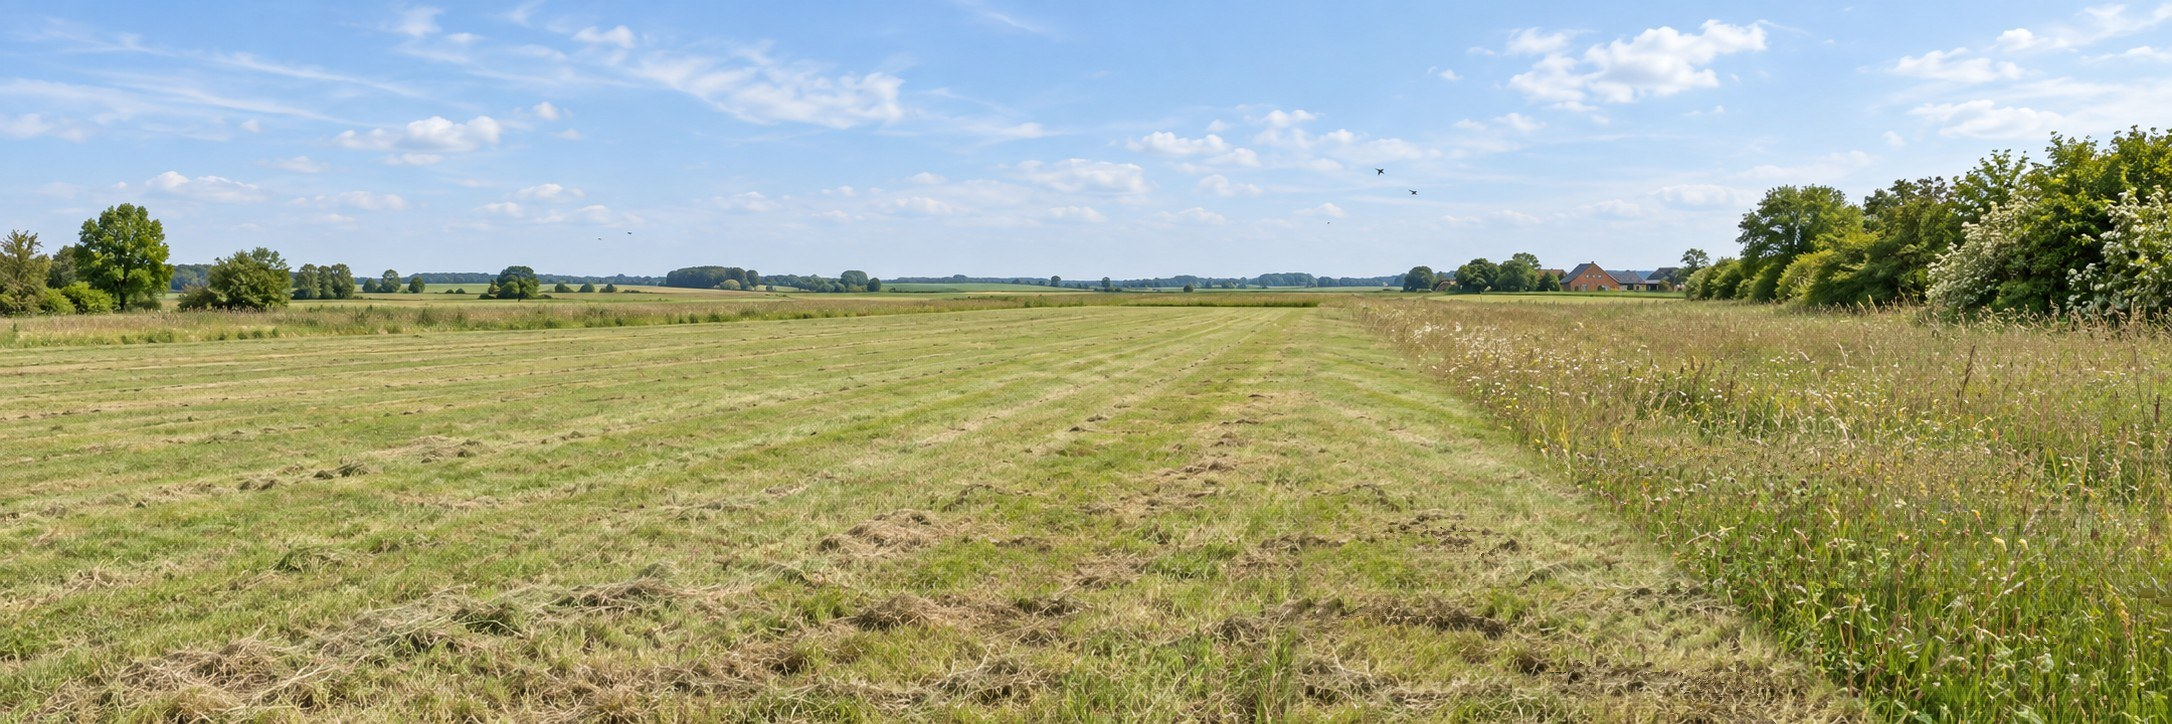
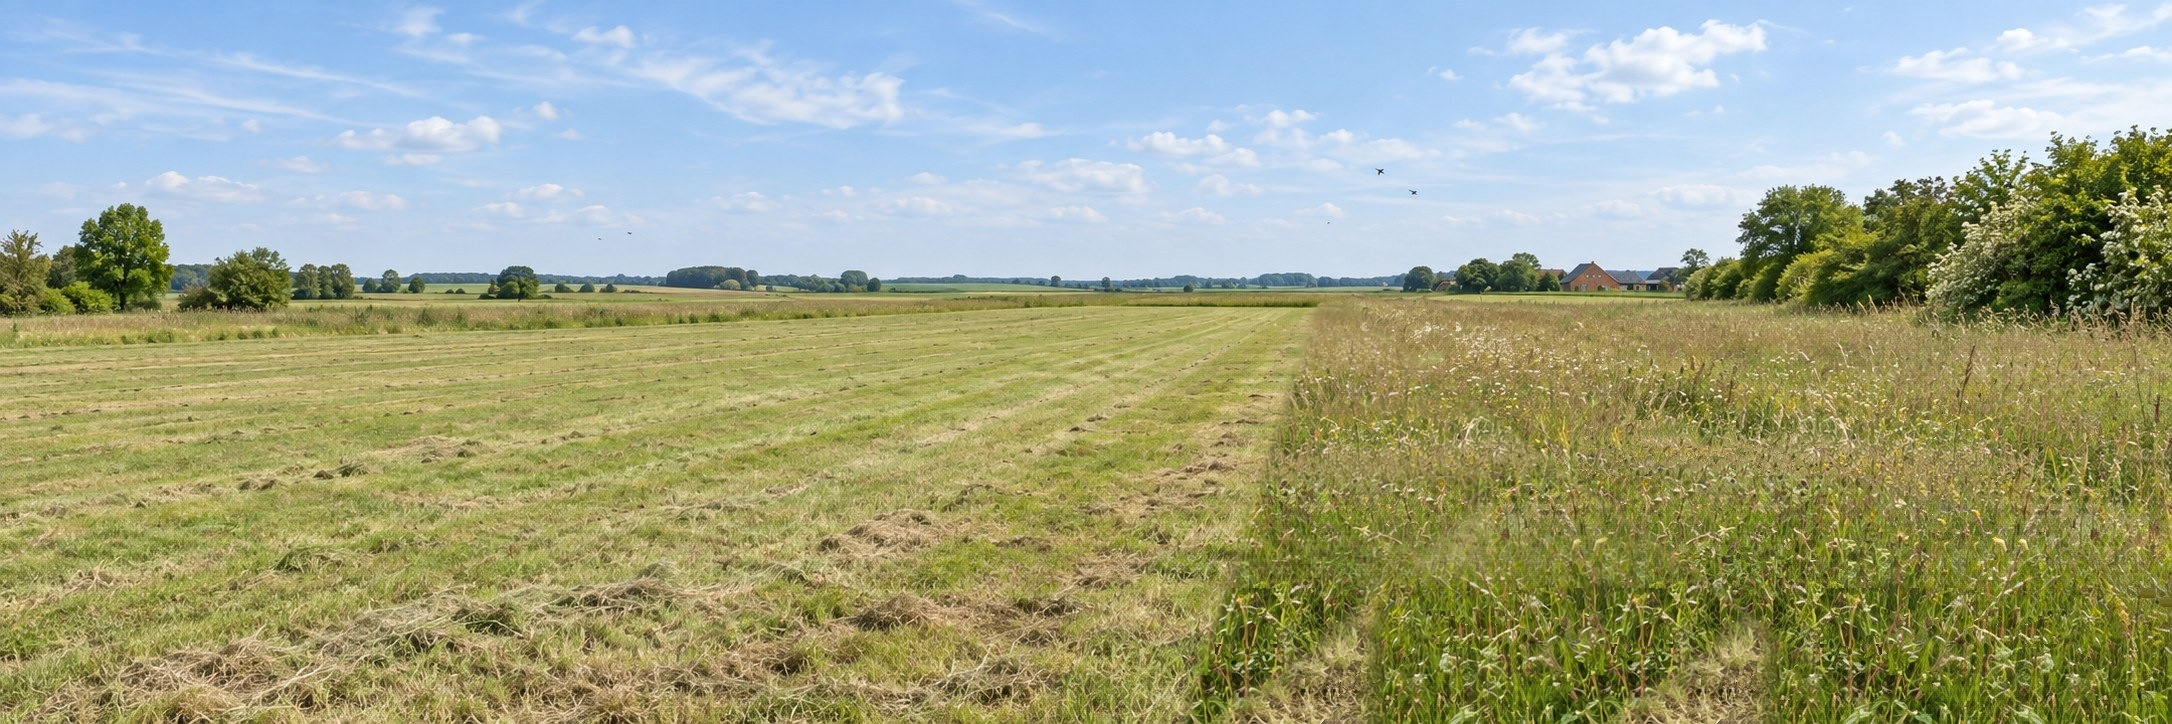
New version: level-3 flower strip widened to the drawn line (margin and its marker in the centre), level-3 points spread over the strip, species further back (insects enlarged in proportion, birds and hare life size), stem visibility fix
Claude-Session: https://claude.ai/code/session_01FiR5RpJPTLi4sTDcQJky3y

Changed region(s): [[0.5244, 0.4254, 0.8637, 1.0]]

diff --git a/new/app3d.js b/new/app3d.js
@@ -47,7 +47,8 @@ const fromImg = (x, y, h = 0) => ({ az: (x - IMG_W / 2) / F, d: F * (H0 - h) / (
 const world = (az, d, y = 0) => new THREE.Vector3(d * Math.sin(az), y, -d * Math.cos(az));
 // edges of the unmown vegetation, exactly as used to make the approved pictures (lines through the vanishing point)
 const lx = (y, xb) => 1327 + (xb - 1327) * (y - 297) / (723 - 297);
-const TALL = { 1: () => false, 3: (x, y) => y > Y0 && x > lx(y, 1880), 5: (x, y) => y > Y0 };   // new version: at level 5 the whole field is meadow
+const XB3 = 1190;   // new version: level-3 flower strip widened to the line drawn by the researcher (bottom-row x 1190 instead of 1880)
+const TALL = { 1: () => false, 3: (x, y) => y > Y0 && x > lx(y, XB3), 5: (x, y) => y > Y0 };   // new version: at level 5 the whole field is meadow
 const STRIP5 = (x, y) => y > Y0 && x > lx(y, 760);   // the original level-5 flower strip (kept for the original tall stems, so levels 1 and 3 stay identical)
 
 function mulberry32(a) { return function () { a |= 0; a = a + 0x6D2B79F5 | 0; let t = Math.imul(a ^ a >>> 15, 1 | a); t = t + Math.imul(t ^ t >>> 7, 61 | t) ^ t; return ((t ^ t >>> 14) >>> 0) / 4294967296; }; }
@@ -253,6 +254,7 @@ function buildFlowers(list) {
     const hf = rr(...H[f.t]); if (f.y <= Y0 + 2) continue;
     const { az, d } = fromImg(f.x, f.y, hf); if (!(d > R_IN && d < VEG_MAX) || Math.abs(az) > 89 * D2R) continue;
     const size = THREE.MathUtils.clamp(f.w * d / F, 0.035, 0.07);
+    if (f.x > lx(f.y, XB3) && f.x <= lx(f.y, 1880) && !f.v3) { const h = Math.sin(f.x * 12.9898 + f.y * 78.233) * 43758.5453; f.v3 = (h - Math.floor(h)) < 0.47 ? 1 : 0; }   // widened level-3 strip
     const p = world(az, d), toViewer = Math.atan2(-p.x, -p.z);   // flower heads turned towards the viewer, as in the photo
     FL.push({ type: f.t, p, h: hf, size, ef: smooth(Math.max(0, Math.min(1, (90 * D2R - Math.abs(az)) / (10 * D2R)))), vis: [0, f.v3, 1], yaw: f.t === 'clover' ? rand() * 6.28 : toViewer + rr(-0.4, 0.4), tilt: f.t === 'daisy' ? rr(0.5, 0.95) : rr(0.15, 0.4), top: new THREE.Vector3() });
   }
@@ -315,13 +317,18 @@ const FLY_H = { bee: 0.4, butterfly: 0.42 };          // assumed height above gr
 // Checked against the edges of the unmown vegetation used for the pictures (the margin markers lie on the real margin edge).
 const AR_LAYOUT = {
   1: { mown: { az: 0, d: 2.5 }, margin: { az: 44, d: 2.8 }, hedge: { x: 1960, y: 225 } },
-  3: { margin: { az: 44, d: 2.8 }, butterfly: { az: 50, d: 3.4 }, flower: { az: 58, d: 2.3 }, bee: { az: 66, d: 1.8 }, hedge: { x: 1960, y: 225 } },
+  // new version, level 3: field margin on the new strip edge in the centre of the view; butterfly, bee and meadow flowers spread over the wider strip
+  3: { margin: { az: 17, d: 3.2 }, butterfly: { az: 34, d: 3.8 }, bee: { az: 47, d: 2.8 }, flower: { az: 60, d: 2.4 }, hedge: { x: 1960, y: 225 } },
   // new version: species spread to both sides (left: hare, bumblebee, grassland bird, whinchat, grasshopper; centre: field margin, bee,
   // flower strip; right: butterfly, meadow flowers, hedgerow)
-  5: { hare: { az: -58, d: 3.3 }, bumblebee: { az: -44, d: 1.7 }, bird: { az: -30, d: 3.0 }, whinchat: { az: -17, d: 2.3 }, grasshopper: { az: -9, d: 1.5 },
-       margin: { az: -5, d: 2.8 }, bee: { az: 10, d: 1.7 }, strip: { az: 15, d: 3.4 }, butterfly: { az: 27, d: 2.6 }, flower: { az: 38, d: 2.0 }, hedge: { x: 1960, y: 225 } }
+  // species further back (27.11.2026): insects 2.6–3.8 m (enlarged in proportion, see SIZE_K), birds and hare 3.6–4 m (life size)
+  5: { hare: { az: -58, d: 4.0 }, bumblebee: { az: -44, d: 2.8 }, bird: { az: -30, d: 4.0 }, whinchat: { az: -17, d: 3.6 }, grasshopper: { az: -9, d: 2.6 },
+       margin: { az: -5, d: 2.8 }, bee: { az: 10, d: 2.8 }, strip: { az: 15, d: 3.4 }, butterfly: { az: 27, d: 3.8 }, flower: { az: 38, d: 2.0 }, hedge: { x: 1960, y: 225 } }
 };
 const MARKER_H = 0.7;                      // markers float this high above the ground (m), with a thin line down to the object
+// new version: the insects were moved further back and enlarged by the same factor, so they look as big on screen as before
+// (factor = new distance / previous distance). Birds and hare keep their life size.
+const SIZE_K = { 3: { bee: 2.8 / 1.8, butterfly: 3.8 / 3.4 }, 5: { bee: 2.8 / 1.7, butterfly: 3.8 / 2.6, bumblebee: 2.8 / 1.7, grasshopper: 2.6 / 1.5 } };
 
 function loftGeometry(prof, lengthM, depthRatio) {   // rounded 3D body from the outline of the side-view picture, coloured by that picture
   const W = prof.w, H = prof.h; let cols = prof.cols.filter(c => c[1] !== null);
@@ -379,7 +386,7 @@ function makeBird(tex, prof, lengthM) {
 // ---------------- new version: four more species at level 5 ----------------
 // Sizes: hare and whinchat life-size (hare about 50 cm long sitting, whinchat about 13 cm); the two insects enlarged like the
 // bee and butterfly (bumblebee 9 cm, grasshopper 10 cm) so they can be seen.
-const NEW5 = { hare: { len: 0.5 }, whinchat: { len: 0.135, perch: 0.6 }, grasshopper: { len: 0.1, h: 0.3 }, bumblebee: { len: 0.09, h: 0.42 } };
+const NEW5 = { hare: { len: 0.5 }, whinchat: { len: 0.135, perch: 0.6 }, grasshopper: { len: 0.1, h: 0.3 }, bumblebee: { len: 0.09, h: 0.42 } };   // base sizes; the insects are enlarged with SIZE_K
 function lambert(tex) { return new THREE.MeshLambertMaterial({ map: tex, side: THREE.DoubleSide, alphaTest: 0.5, transparent: false }); }
 function planeFrom(tex, iw, ih, a1, a2, b1, b2, L, z) {   // a flat picture part, placed so that 2 of its points land on 2 points of the body picture
   const B1 = imgToModel(L, b1[0], b1[1]), B2 = imgToModel(L, b2[0], b2[1]);
@@ -452,6 +459,8 @@ function buildNewSpecies(prof, tx, wingTex) {
     else if (kind === 'grasshopper') { const b = makeGrasshopper(tx, prof); a = { g: b.g, body: b.body, legs: b.legs, top: b.top }; a.home = world(az, d, NEW5.grasshopper.h);
       a.stemBase = world(az, d); const st = b.stem; st.position.add(a.home); root.add(st); a.stem = st; }
     else { const b = makeBumblebee(tx, prof, wingTex); a = { g: b.g, wings: b.wings, top: b.top }; a.home = world(az, d, NEW5.bumblebee.h); }
+    const K = SIZE_K[5][kind] ?? 1;
+    if (K !== 1) { const sc = new THREE.Group(); [...a.g.children].forEach(c => sc.add(c)); sc.scale.setScalar(K); a.g.add(sc); a.top *= K; }   // whole animal enlarged
     a.kind = kind; a.lv = 5; a.g.position.copy(a.home); a.baseYaw = -az; a.g.rotation.y = a.baseYaw; a.yaw = a.baseYaw; a.targetYaw = a.baseYaw;
     a.presence = a.lv === PRODUCT_LEVEL ? 1 : 0; a.phase = rand2() * 10; a.timer = 2 + rand2() * 3; a.t = 0; a.action = 'idle'; root.add(a.g); animals.push(a);
   }
@@ -491,8 +500,9 @@ function buildAnimals(prof, tx, wingInfo) {
       a = { kind, lv, g: b.g, inner: b.inner, home: b.g.position.clone(), baseYaw, yaw: baseYaw, targetYaw: baseYaw, timer: 2, action: 'idle', t: 0, top: len * 0.9 };
     } else {
       const hI = FLY_H[kind], { d } = fromImg(s.x, s.y, hI), az = azL;
-      if (kind === 'bee') { const len = s.h * 1.5 * 0.5625 * d / F; const b = makeBee(tx.bee, tx.wing, wingInfo, prof, len); a = { kind, lv, g: b.g, wings: b.wings, top: len * 0.6 }; a.g.rotation.y = -az + (s.flip ? Math.PI : 0); }
-      else { const span = s.h * 1.5 * 0.87 * d / F; const b = makeButterfly(tx.bfly, span); a = { kind, lv, g: b.g, pl: b.pl, pr: b.pr, top: span * 0.4 }; a.g.rotation.y = -az; }
+      const K = SIZE_K[lv]?.[kind] ?? 1;
+      if (kind === 'bee') { const len = s.h * 1.5 * 0.5625 * d / F * K; const b = makeBee(tx.bee, tx.wing, wingInfo, prof, len); a = { kind, lv, g: b.g, wings: b.wings, top: len * 0.6 }; a.g.rotation.y = -az + (s.flip ? Math.PI : 0); }
+      else { const span = s.h * 1.5 * 0.87 * d / F * K; const b = makeButterfly(tx.bfly, span); a = { kind, lv, g: b.g, pl: b.pl, pr: b.pr, top: span * 0.4 }; a.g.rotation.y = -az; }
       a.home = world(az, dL, hI); a.g.position.copy(a.home);
     }
     a.presence = lv === PRODUCT_LEVEL ? 1 : 0; a.phase = rand() * 10; root.add(a.g); animals.push(a);
@@ -501,7 +511,7 @@ function buildAnimals(prof, tx, wingInfo) {
 function updateAnimals(dt, time) {
   for (const a of animals) {
     const want = a.lv === curLevel ? 1 : 0; a.presence += (want - a.presence) * Math.min(1, dt * 3);
-    a.g.visible = a.presence > 0.02; a.g.scale.setScalar(Math.max(0.001, a.presence)); if (!a.g.visible) continue;
+    a.g.visible = a.presence > 0.02; a.g.scale.setScalar(Math.max(0.001, a.presence)); if (a.stem) a.stem.visible = a.g.visible; if (!a.g.visible) continue;
     const t = time + a.phase;
     if (NEW5[a.kind]) { updateNewSpecies(a, dt, t); continue; }
     if (a.kind === 'bee') {            // hovers around its spot among the flowers

diff --git a/new/index.html b/new/index.html
@@ -13,7 +13,7 @@
     <meta name="mobile-web-app-capable" content="yes" />
     <meta name="apple-mobile-web-app-title" content="Grassland" />
     <meta name="apple-mobile-web-app-status-bar-style" content="black-translucent" />
-    <link rel="stylesheet" href="styles.css?v=n3" />
+    <link rel="stylesheet" href="styles.css?v=n4" />
   </head>
   <body>
     <main class="experience" id="experience">
@@ -116,6 +116,6 @@
         <p>This grassland is designed for a landscape view.</p>
       </div>
     </main>
-    <script type="module" src="app3d.js?v=n3"></script>
+    <script type="module" src="app3d.js?v=n4"></script>
   </body>
 </html>

diff --git a/new/3d/index.html b/new/3d/index.html
@@ -14,7 +14,7 @@
     <meta name="mobile-web-app-capable" content="yes" />
     <meta name="apple-mobile-web-app-title" content="Grassland" />
     <meta name="apple-mobile-web-app-status-bar-style" content="black-translucent" />
-    <link rel="stylesheet" href="styles.css?v=n3" />
+    <link rel="stylesheet" href="styles.css?v=n4" />
   </head>
   <body>
     <main class="experience" id="experience">
@@ -118,6 +118,6 @@
       </div>
     </main>
     <script>window.FORCE_MODE = 'preview';</script>
-    <script type="module" src="app3d.js?v=n3"></script>
+    <script type="module" src="app3d.js?v=n4"></script>
   </body>
 </html>
